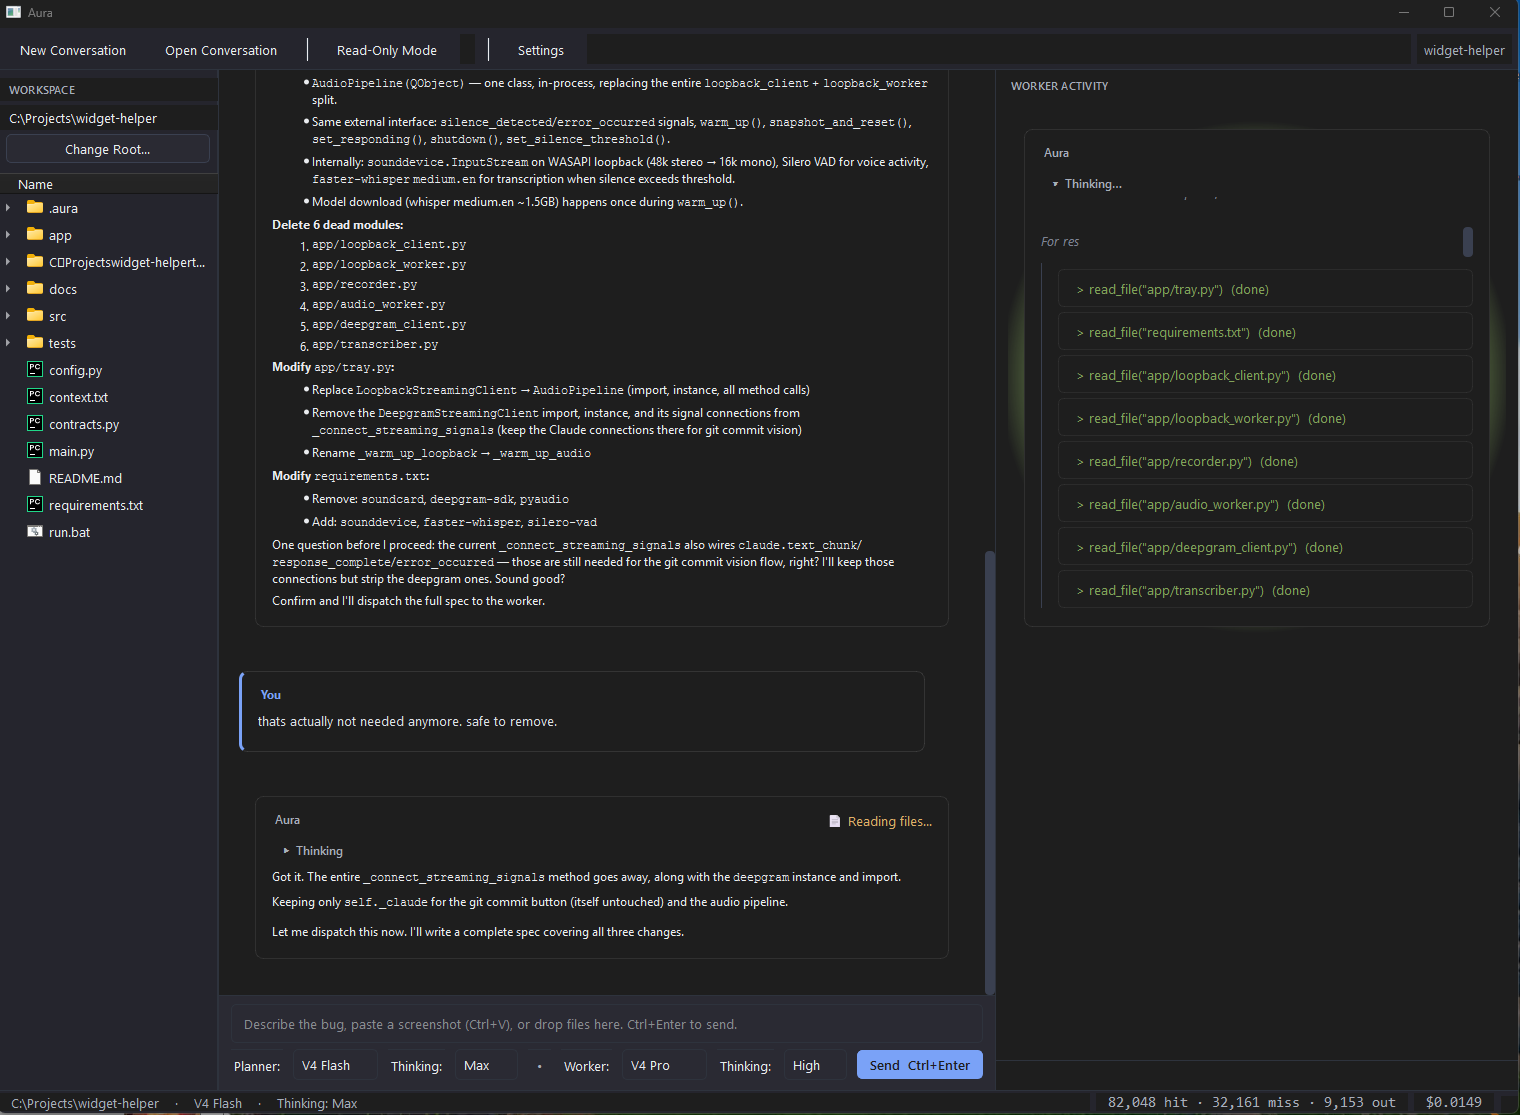
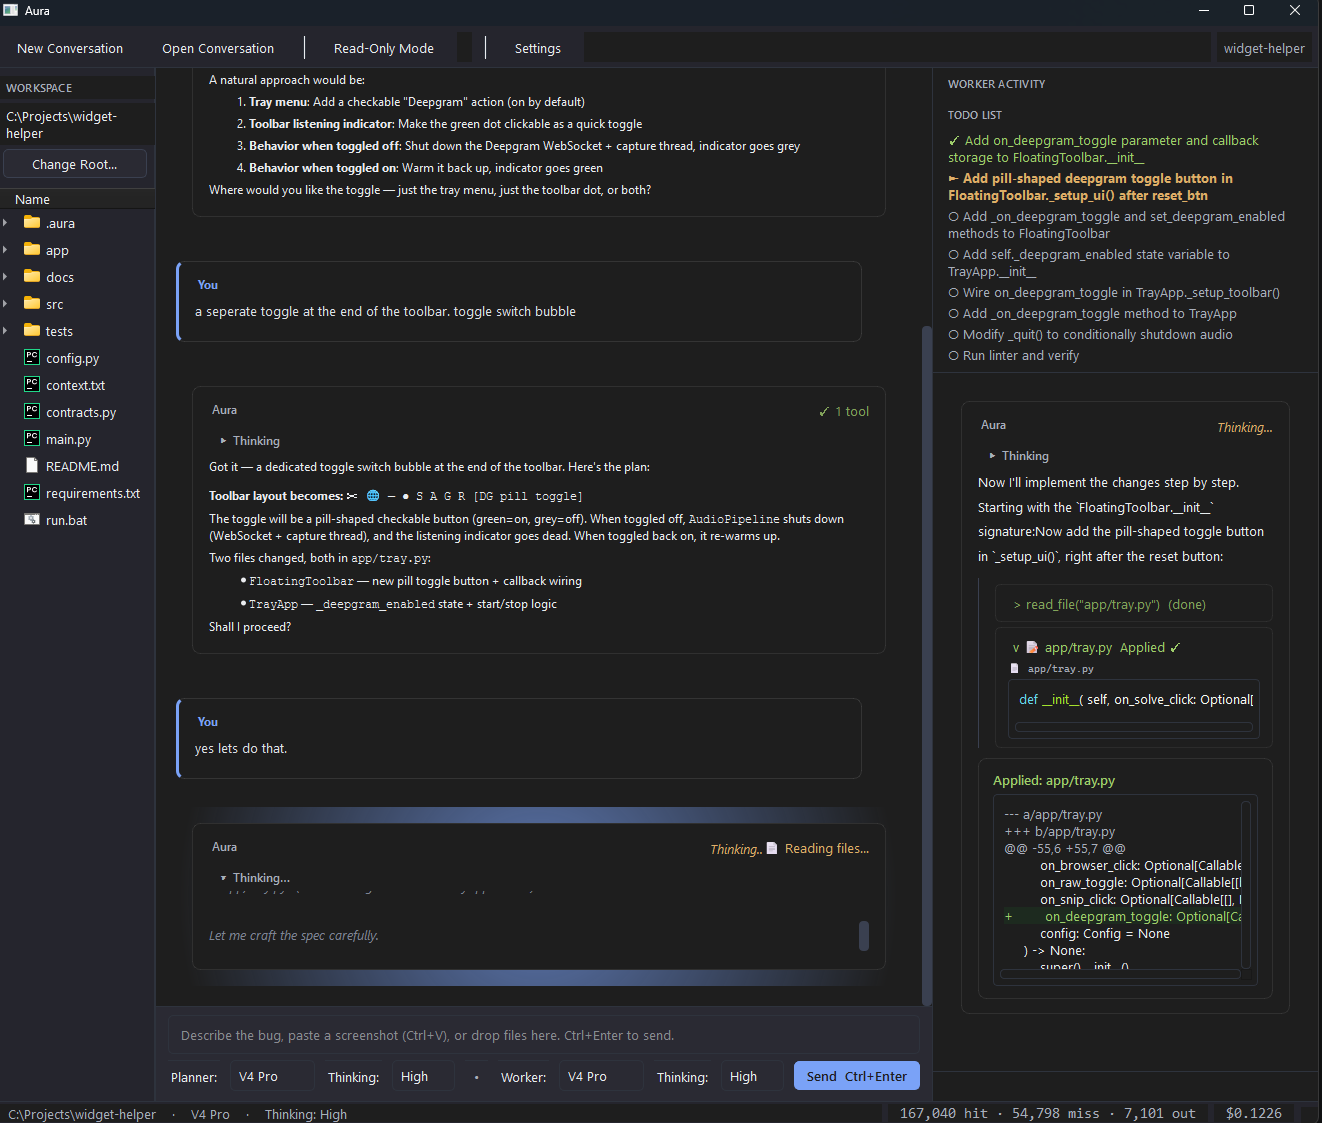
.000407

diff --git a/aura/client/__init__.py b/aura/client/__init__.py
@@ -6,6 +6,7 @@ from aura.client.events import (
     Done,
     Event,
     ReasoningDelta,
+    TerminalOutput,
     ToolCallArgsDelta,
     ToolCallEnd,
     ToolCallStart,
@@ -27,4 +28,5 @@ __all__ = [
     "ApiError",
     "ToolResult",
     "WorkerDispatchRequested",
+    "TerminalOutput",
 ]